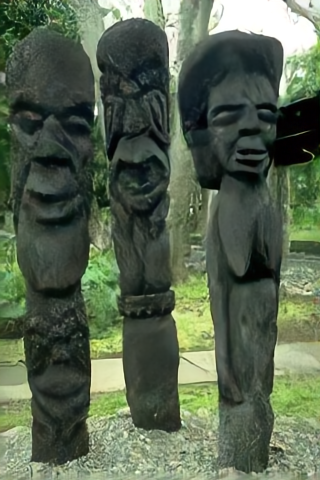
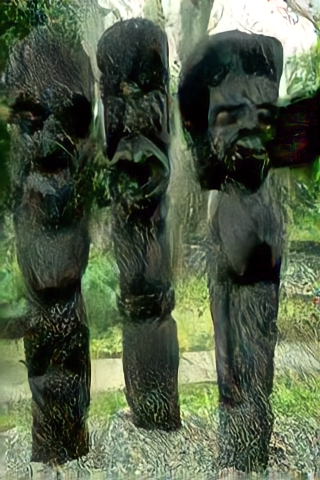
Finish target image loading

diff --git a/dwdn/attacker.py b/dwdn/attacker.py
@@ -79,7 +79,7 @@ class LinfStep(AttackerStep):
         l = len(x.shape) - 1
         g_norm = torch.norm(g.view(g.shape[0], -1), dim=1).view(-1, *([1] * l))
         scaled_g = g / (g_norm + 1e-10)
-        return x + scaled_g * self.step_size
+        return x - scaled_g * self.step_size
 
     def random_perturb(self, x, mode):
         return x + 2 * (torch.rand_like(x) - 0.5) * self.eps
@@ -109,24 +109,23 @@ class AttackerModel(torch.nn.Module):
             criterion = torch.nn.MSELoss(reduction='none')
 
             targeted = target is not None
+            # print(target.size())
             if not targeted:
                 target = self.model(orig_input, kernel)
                 target = utils_deblur.postprocess(target[-1], rgb_range=1)[0]
-
-            # print(target[0].size())
-            # print(target[1].size())
+            else:
+                _, _, h, w = orig_input.shape
+                target = T.Resize(size=(h, w))(target)
+            # print(target.size())
             step_class = STEPS[constraint] if isinstance(constraint, str) else constraint
             step = step_class(eps=eps, orig_input=orig_input, step_size=step_size)
 
-            def calc_loss(input, tar):
+            def calc_loss(input):
                 adv_deblur = self.model(input, kernel)
                 adv_deblur = utils_deblur.postprocess(adv_deblur[-1], rgb_range=1)[0]
 
                 if targeted:
-                    _, _, h, w = adv_deblur.shape
-                    tar = T.Resize(size=(h, w))(tar)
-                    # assert
-                    return criterion(adv_deblur, tar)
+                    return criterion(adv_deblur, target)
                 else:
                     return -criterion(adv_deblur, target)
 
@@ -139,14 +138,14 @@ class AttackerModel(torch.nn.Module):
                 # Random start (to escape certain types of gradient masking)
                 if random_start:
                     x = step.random_perturb(x, random_mode)
-                    losses = calc_loss(x, target)
+                    losses = calc_loss(x)
                     best_x, best_loss = step.get_best(best_x, best_loss, x, losses) if use_best else (x, losses)
 
                 # PGD iterates
                 for _ in trange(iterations, desc=f"Adversarial Iteration for Current Image", position=1, ncols=120, leave=False):
                     x = x.clone().detach().requires_grad_(True)
 
-                    losses = calc_loss(x, target)
+                    losses = calc_loss(x)
                     assert losses.shape[0] == x.shape[0], \
                         'Shape of losses must match input!'
 
@@ -160,7 +159,7 @@ class AttackerModel(torch.nn.Module):
                     x = step.project(x)
 
 
-                losses = calc_loss(x, target)
+                losses = calc_loss(x)
                 best_x, best_loss = step.get_best(best_x, best_loss, x, losses) if use_best else (x, losses)
                 # if torch.any(losses != best_loss):
                 #     print(f"Loss improved from {losses.sum()} to {best_loss.sum()}")
@@ -168,7 +167,7 @@ class AttackerModel(torch.nn.Module):
                 return best_x.clone().detach(), best_loss.clone().detach()
 
             x_init = x.clone().detach()
-            loss_init = calc_loss(x, target)
+            loss_init = calc_loss(x)
 
             if random_restarts:
                 best_x = x_init

diff --git a/dwdn/data/vsrdata.py b/dwdn/data/vsrdata.py
@@ -42,7 +42,8 @@ class VSRData(data.Dataset):
         image_names_gt = sorted(glob.glob(os.path.join(self.dir_image_gt, "*")))
         image_names_kernel = sorted(glob.glob(os.path.join(self.dir_image_kernel, "*")))
         image_names_target = sorted(glob.glob(os.path.join(self.dir_image_target, "*")))
-
+        # print(image_names_blur)
+        # print(image_names_target)
         names_sharp, names_blur, names_kernel, names_target = [], [], [], []
         for image_name in range(len(image_names_blur)):
             image_sharp = [image_names_gt[image_name]]
@@ -53,9 +54,11 @@ class VSRData(data.Dataset):
             names_sharp.append(image_sharp)
             names_blur.append(image_blur)
             names_kernel.append(image_kernel)
-            image_target.append(image_target)
+            names_target.append(image_target)
             self.n_image.append(len(image_sharp))
 
+        # print(len(image_blur))
+        # print(len(image_target))
         return names_sharp, names_blur, names_kernel, names_target
 
     def _load(self, n_images):

diff --git a/dwdn/data/benchmark.py b/dwdn/data/benchmark.py
@@ -27,5 +27,10 @@ class Benchmark(vsrdata.VSRData):
                 self.dir_image_blur = os.path.join(self.apath, "blurredImage")
                 self.dir_image_gt = os.path.join(self.apath, "blurredImage")
                 self.dir_image_kernel = os.path.join(self.apath, "kernelImage")
-                self.dir_image_target = os.path.join(self.apath, "targetedImage") if self.args.targeted else os.path.join(self.apath, "blurredImage")
                 print("Test image path :", self.dir_image_blur)
+
+                if self.args.targeted:
+                    self.dir_image_target = os.path.join(self.apath, "targetedImage") 
+                    print("Attack image path :", self.dir_image_target)
+                else:
+                    self.dir_image_target = os.path.join(self.apath, "blurredImage")

diff --git a/dwdn/trainer_adv.py b/dwdn/trainer_adv.py
@@ -132,6 +132,7 @@ class Trainer_adv:
                 blur = torch.squeeze(blur, 0)
                 target = torch.squeeze(target, 0)
                 kernel = torch.squeeze(kernel, 0)
+
                 blur = blur.to(self.device)
                 target = target.to(self.device)
 
@@ -151,7 +152,7 @@ class Trainer_adv:
                 kernel = torch.squeeze(kernel, 0)
                 blur = blur.to(self.device)
 
-                deblur, deblur_adv = self.model(blur, kernel, target=None, make_adv=True, **attack_kwargs)
+                deblur, deblur_adv = self.model(blur, kernel, make_adv=True, **attack_kwargs)
 
                 if self.args.save_images:
                     deblur_adv = utils_deblur.postprocess(deblur_adv[-1], rgb_range=self.args.rgb_range)

diff --git a/dwdn/option.py b/dwdn/option.py
@@ -97,7 +97,7 @@ parser.add_argument('--save_images', default=True, action='store_true',
 # Attack specifications
 parser.add_argument('--targeted', default=False,
                     help='If ture, run targeted attack.')
-parser.add_argument('--eps', type=float, default=0.1)
+parser.add_argument('--eps', type=float, default=5)
 parser.add_argument('--adv_iterations', type=int, default=5)
 parser.add_argument('--constraint', type=str, default='inf')
 

diff --git a/dwdn/template.py b/dwdn/template.py
@@ -30,3 +30,5 @@ def set_template(args):
             args.cpu = True
             args.n_threads = 0
 
+            args.targeted = True
+            args.eps = 0.2
